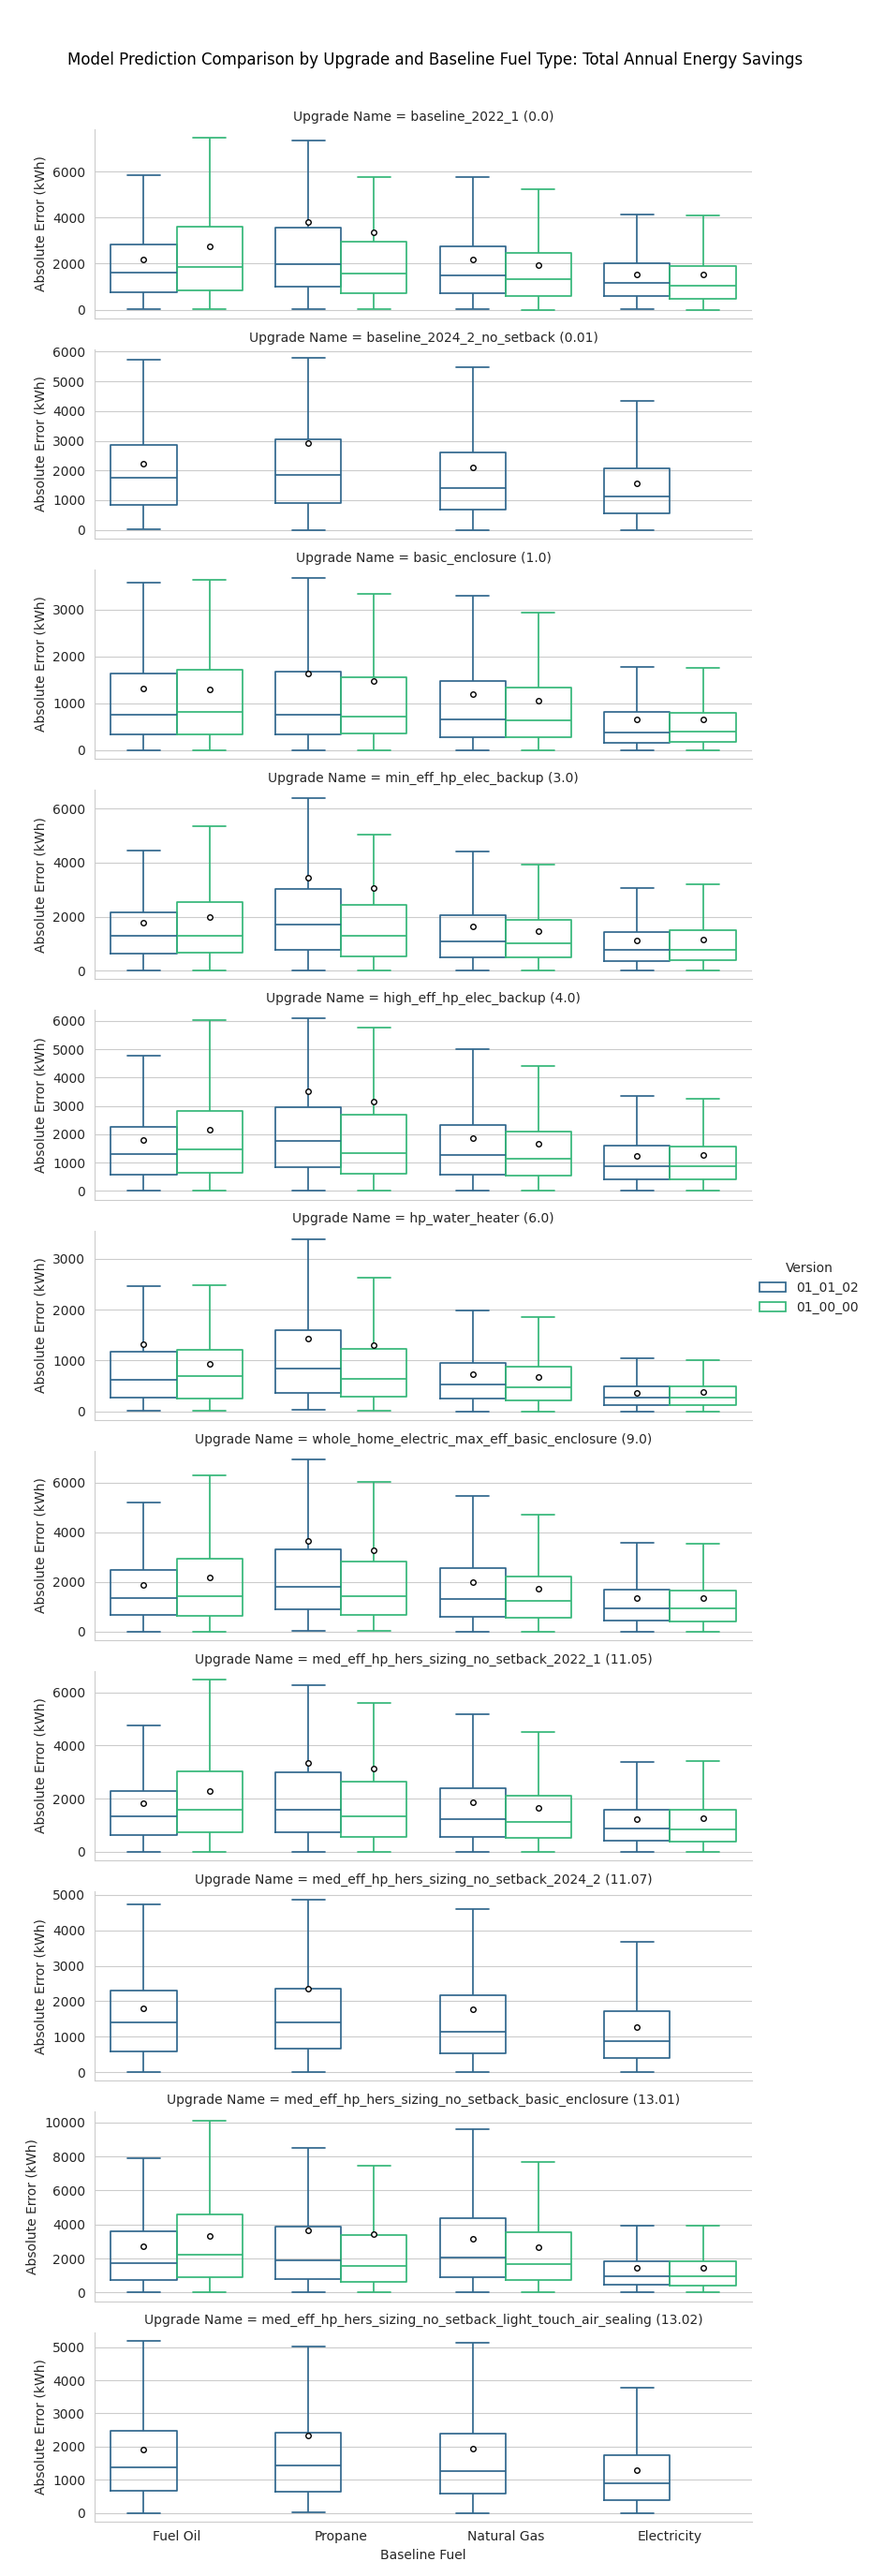
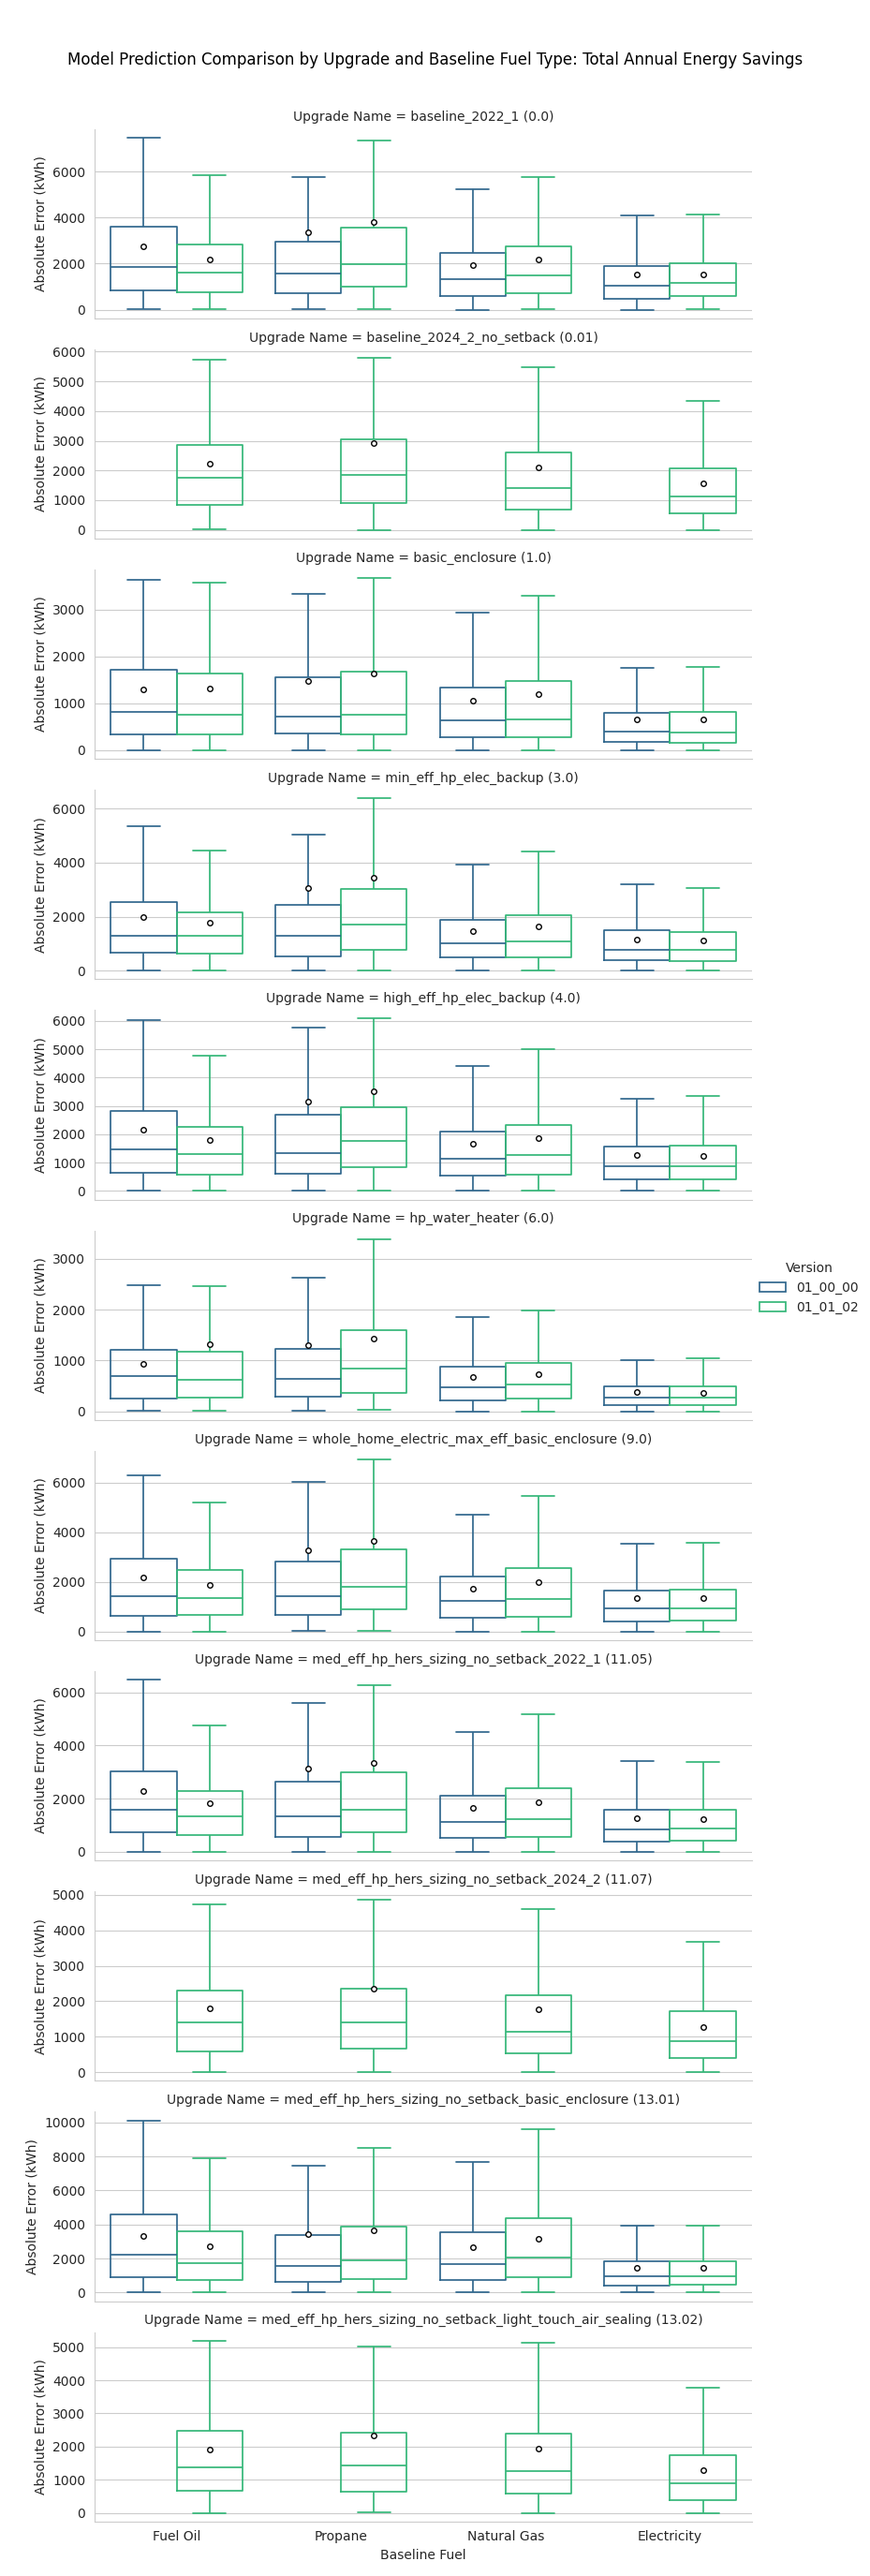
address PR comments

diff --git a/scripts/model_evaluation_04.py b/scripts/model_evaluation_04.py
@@ -119,7 +119,7 @@ prediction_arr = model_loaded.predict(inference_data)
 
 # DBTITLE 1,Concatenate pkeys and predictions
 # create an array of N x 2 with the pkeys needed to join this to metadata
-sample_pkeys = ["building_id", "upgrade_id"]
+sample_pkeys = ["building_id", "upgrade_id", "building_set"]
 sample_pkey_arr = inference_data[sample_pkeys].values
 
 # combine prediction (including sum over all fuels) and pkeys to create a N x 2 (pkeys) array + M (fuel targets) + 1 (summed fuels)
@@ -149,10 +149,6 @@ pred_only = spark.createDataFrame(
 
 # COMMAND ----------
 
-test_data
-
-# COMMAND ----------
-
 # DBTITLE 1,Combine actual and predicted targets
 # Create dataframe with columns for actual and predicted values for each fuel
 # and add a total columns to the actual
@@ -166,7 +162,7 @@ pred_wide = pred_only.join(
 # Melt to long format by fuel with columns: building, upgrade, fuel, true, pred
 pred_by_building_upgrade_fuel = (
     pred_wide.melt(
-        ids=sample_pkeys + ['building_set'],
+        ids=sample_pkeys,
         values=targets + target_pred_labels,
         valueColumnName="value",
         variableColumnName="fuel",
@@ -178,7 +174,7 @@ pred_by_building_upgrade_fuel = (
         ),
     )
     .withColumn("fuel", F.split(F.col("fuel"), "-")[0])
-    .groupBy(*sample_pkeys, "building_set", "fuel")
+    .groupBy(*sample_pkeys, "fuel")
     .pivot(pivot_col="target_type", values=["actual", "prediction"])
     .agg(F.first("value"))  # vacuous agg
 )

diff --git a/scripts/model_evaluation_version_comparison.py b/scripts/model_evaluation_version_comparison.py
@@ -175,6 +175,7 @@ def plot_error_comparison_boxplot(data, x, y="Absolute Error (kWh)", row=None, o
             y=y,
             hue="Version",
             order=order,
+            hue_order = [version_num_prev, version_num_new],
             palette="viridis",
             fill=False,
             linewidth=1.25,
